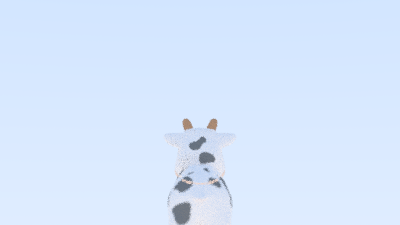
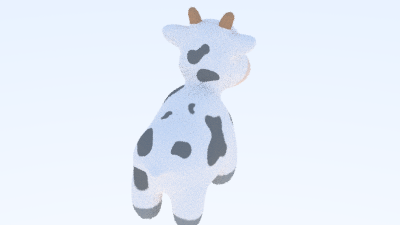
Fixed model tracing, to check for all meshes.

diff --git a/mesh.h b/mesh.h
@@ -12,59 +12,70 @@ public:
 		: verticies {_verticies}, indices {_indices}, mat {_material} {};
   
   bool hit(const ray& r, interval ray_t, hit_record& rec) const override {
+    hit_record temp_rec;
+    bool hit_anything = false;
+    auto closest_so_far = ray_t.max;
+    
     for (int idx = 0; idx < verticies.size(); idx += 3 * 8) {
- 
-      int e0 = idx;
-      int e1 = idx + 8;
-      int e2 = idx + 16;
- 
-      point3 v0{
-        verticies[e0], verticies[e0 + 1], verticies[e0 + 2],
-      };
-      point3 v1{
-        verticies[e1], verticies[e1 + 1], verticies[e1 + 2]
-      };
-      point3 v2{
-        verticies[e2], verticies[e2 + 1], verticies[e2 + 2]
-      };
- 
-      double t, u, v;
-      bool hit = intersect_triangle(r, v0, v1, v2, t, u, v);
-      // Find the nearest root that lies in the acceptable range
-      if (!hit || !ray_t.surrounds(t)) {
-        continue; // test next triangle
+      if (hit_one(r, interval(ray_t.min, closest_so_far), temp_rec, idx)) {
+          hit_anything = true;
+          closest_so_far = temp_rec.t;
+          rec = temp_rec;
       }
- 
-      point3 n0{
-        verticies[e0 + 3], verticies[e0 + 4], verticies[e0 + 5]
-      };
-      point3 n1{
-        verticies[e1 + 3], verticies[e1 + 4], verticies[e1 + 5]
-      };
-      point3 n2{
-        verticies[e2 + 3], verticies[e2 + 4], verticies[e2 + 5]
-      };
-      
-      auto normal = (1 - u - v) * n0 + u * n1 + v * n2;
-      auto tex_u = verticies[e0 + 6] * (1 - u - v)
-        + verticies[e1 + 6] * u
-        + verticies[e2 + 6] * v;
-      auto tex_v = verticies[e0 + 7] * (1 - u - v)
-        + verticies[e1 + 7] * u
-        + verticies[e2 + 7] * v;
-      
-      rec.t = t;
-      rec.p = r.at(rec.t);
-      rec.set_face_normal(r, normal);
-      rec.u = tex_u;
-      rec.v = tex_v;
-      rec.mat = mat;
-      return true;
     }
-    return false;
+    return hit_anything;
   };
 
 private:
+  bool hit_one(const ray& r, interval ray_t, hit_record& rec, int idx) const {
+    int e0 = idx;
+    int e1 = idx + 8;
+    int e2 = idx + 16;
+
+    point3 v0{
+      verticies[e0], verticies[e0 + 1], verticies[e0 + 2],
+    };
+    point3 v1{
+      verticies[e1], verticies[e1 + 1], verticies[e1 + 2]
+    };
+    point3 v2{
+      verticies[e2], verticies[e2 + 1], verticies[e2 + 2]
+    };
+
+    double t, u, v;
+    bool hit = intersect_triangle(r, v0, v1, v2, t, u, v);
+    // Find if the nearest root lies in the acceptable range
+    if (!hit || !ray_t.surrounds(t)) {
+       return false;
+    }
+
+    point3 n0{
+      verticies[e0 + 3], verticies[e0 + 4], verticies[e0 + 5]
+    };
+    point3 n1{
+      verticies[e1 + 3], verticies[e1 + 4], verticies[e1 + 5]
+    };
+    point3 n2{
+      verticies[e2 + 3], verticies[e2 + 4], verticies[e2 + 5]
+    };
+    
+    auto normal = (1 - u - v) * n0 + u * n1 + v * n2;
+    auto tex_u = verticies[e0 + 6] * (1 - u - v)
+      + verticies[e1 + 6] * u
+      + verticies[e2 + 6] * v;
+    auto tex_v = verticies[e0 + 7] * (1 - u - v)
+      + verticies[e1 + 7] * u
+      + verticies[e2 + 7] * v;
+    
+    rec.t = t;
+    rec.p = r.at(rec.t);
+    rec.set_face_normal(r, normal);
+    rec.u = tex_u;
+    rec.v = tex_v;
+    rec.mat = mat;
+    return true;
+  }
+  
   static bool intersect_triangle(
     const ray& r,
     const point3 v0, const point3 v1, const point3 v2,
@@ -81,7 +92,6 @@ private:
 
 #ifdef TEST_CULL           /* define TEST_CULL if culling is desired */
       if (det < epsilon) {
-//        std::clog << "Gaga" << det << "Gege" << std::endl;
         return false;
       }
 

diff --git a/model.h b/model.h
@@ -25,12 +25,18 @@ public:
   model(const char* path) { loadModel(path); }
   
   bool hit(const ray& r, interval ray_t, hit_record& rec) const override {
+    hit_record temp_rec;
+    bool hit_anything = false;
+    auto closest_so_far = ray_t.max;
+    
     for (auto mesh: meshes) {
-      if(mesh.hit(r, ray_t, rec)) {
-        return true;
+      if (mesh.hit(r, interval(ray_t.min, closest_so_far), temp_rec)) {
+          hit_anything = true;
+          closest_so_far = temp_rec.t;
+          rec = temp_rec;
       }
     }
-    return false;
+    return hit_anything;
   }
  
 private:
@@ -94,47 +100,6 @@ private:
       }
     }
  
-  for (auto p = vertices.begin(); p != vertices.end(); p++) {
-    std::clog << *p << " " << std::endl;
-  }
-    
-//    exit(0);
-    
-//    for (unsigned int i = 0; i < _mesh->mNumVertices; i++) {
-//      // process vertex positions, normals and texture coordinates
-//      vertices.push_back(_mesh->mVertices[i].x);
-//      vertices.push_back(_mesh->mVertices[i].y);
-//      vertices.push_back(_mesh->mVertices[i].z);
-//      
-//      // normals
-//      if (_mesh->HasNormals()) { // todo: attempt to generate normals, if missing
-//        vertices.push_back(_mesh->mNormals[i].x);
-//        vertices.push_back(_mesh->mNormals[i].y);
-//        vertices.push_back(_mesh->mNormals[i].z);
-//      }
-//      
-//      // texture coordinates
-//      if(_mesh->mTextureCoords[0]) { // does the mesh contain texture coordinates?
-//        // a vertex can contain up to 8 different texture coordinates. We thus make the assumption that we won't
-//        // use models where a vertex can have multiple texture coordinates so we always take the first set (0).
-//        vertices.push_back(_mesh->mTextureCoords[0][i].x);
-//        vertices.push_back(_mesh->mTextureCoords[0][i].y);
-////        // tangent
-////        vector.x = _mesh->mTangents[i].x;
-////        vector.y = _mesh->mTangents[i].y;
-////        vector.z = _mesh->mTangents[i].z;
-////        vertex.Tangent = vector;
-////        // bitangent
-////        vector.x = _mesh->mBitangents[i].x;
-////        vector.y = _mesh->mBitangents[i].y;
-////        vector.z = _mesh->mBitangents[i].z;
-////        vertex.Bitangent = vector;
-//      } else {
-//        vertices.push_back(0);
-//        vertices.push_back(0);
-//      }
-//    }
-    
     std::cout << "Total vertices: " << vertices.size() << std::endl;
  
     std::cout << "Reading indicies, beep-boop!" << std::endl;
@@ -143,7 +108,6 @@ private:
       aiFace face = _mesh->mFaces[i];
       for (unsigned int j = 0; j < face.mNumIndices; j++) {
           indices.push_back(face.mIndices[j]);
-//          std::cout << face.mIndices[j] << std::endl;
         }
     }
     

diff --git a/main.cpp b/main.cpp
@@ -70,10 +70,10 @@ int main(int argc, char* argv[])
 //  string modelPath = "/Users/senpie/Documents/projects/personal/tiny-ray-tracer/assets/cube.obj";
 //  string modelPath = "/Users/senpie/Documents/projects/personal/tiny-ray-tracer/assets/backpack/backpack.obj";
 //  string modelPath = "/Users/senpie/Documents/projects/personal/tiny-ray-tracer/assets/cow/cow.obj";
-  string modelPath = "/Users/senpie/Documents/projects/personal/tiny-ray-tracer/assets/box/wooden-box.obj";
+//  string modelPath = "/Users/senpie/Documents/projects/personal/tiny-ray-tracer/assets/box/wooden-box.obj";
 //  string modelPath = "/Users/senpie/Documents/projects/personal/tiny-ray-tracer/assets/wood-box/wooden-box.obj";
 //  string modelPath = "/Users/senpie/Documents/projects/personal/tiny-ray-tracer/assets/smiley/smiley.obj";
-//  string modelPath = "/Users/senpie/Documents/projects/personal/tiny-ray-tracer/assets/crate/crate.obj";
+  string modelPath = "/Users/senpie/Documents/projects/personal/tiny-ray-tracer/assets/crate/crate.obj";
   world.add(make_shared<model>(modelPath.c_str()));
   
   camera cam;
